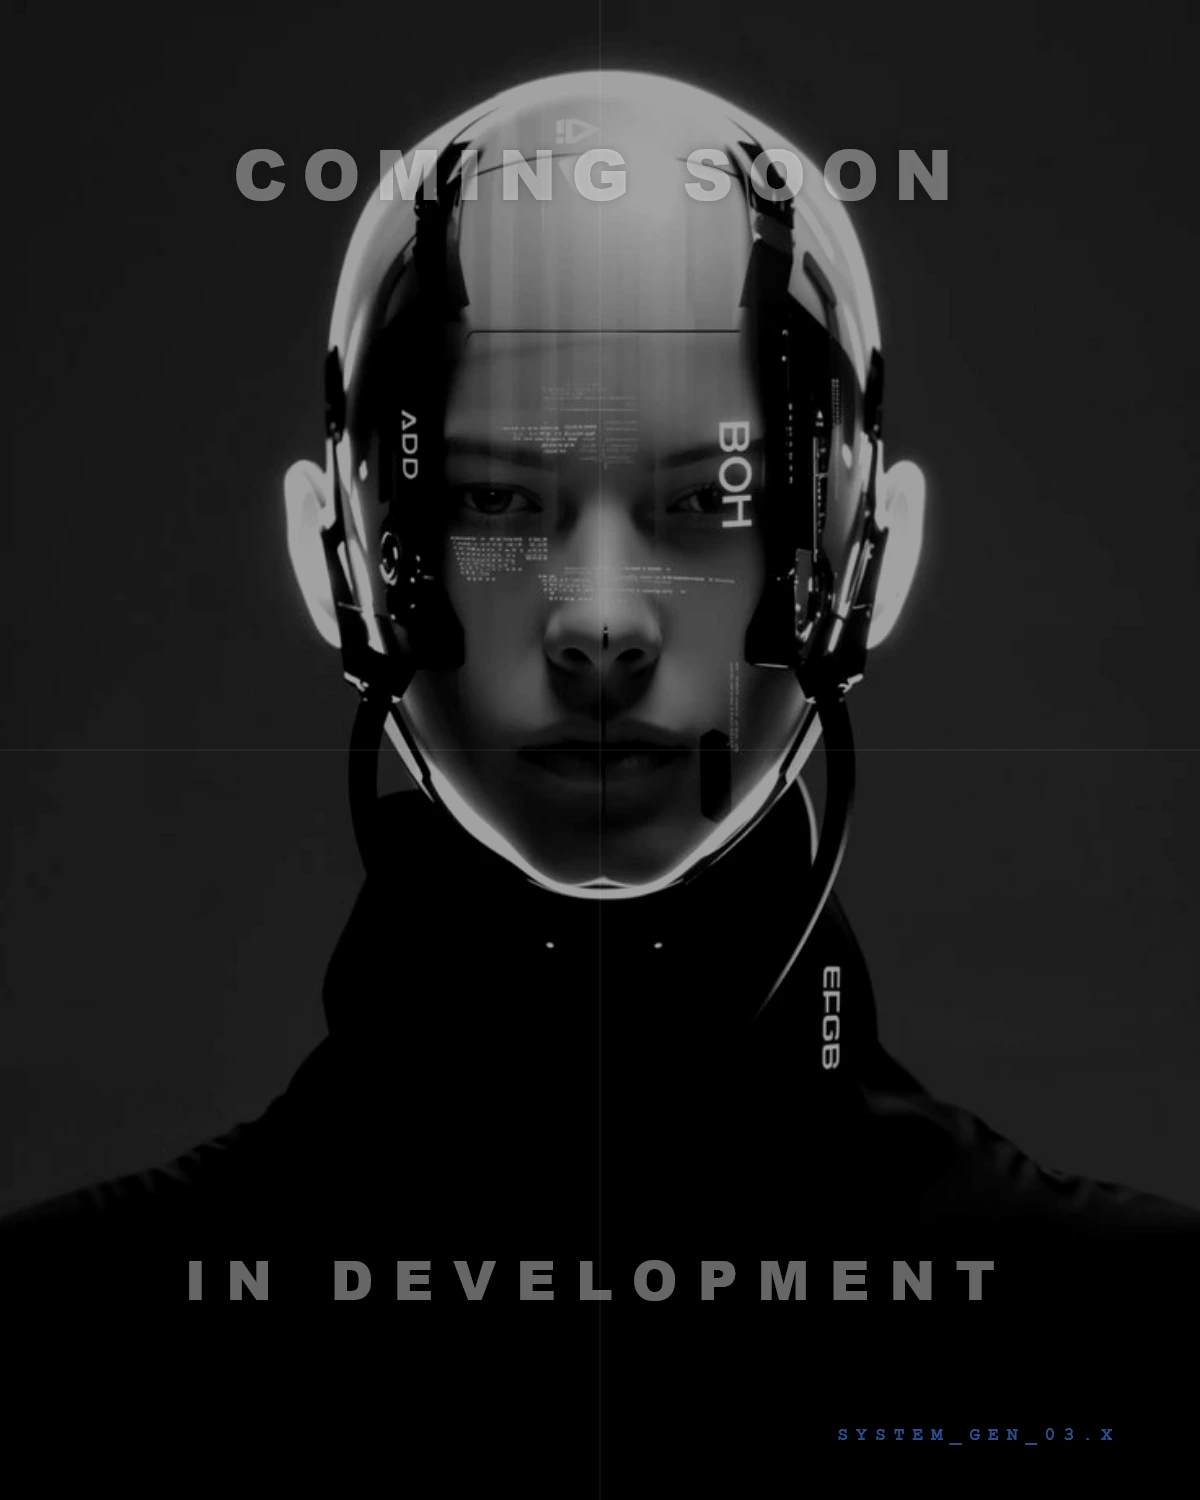
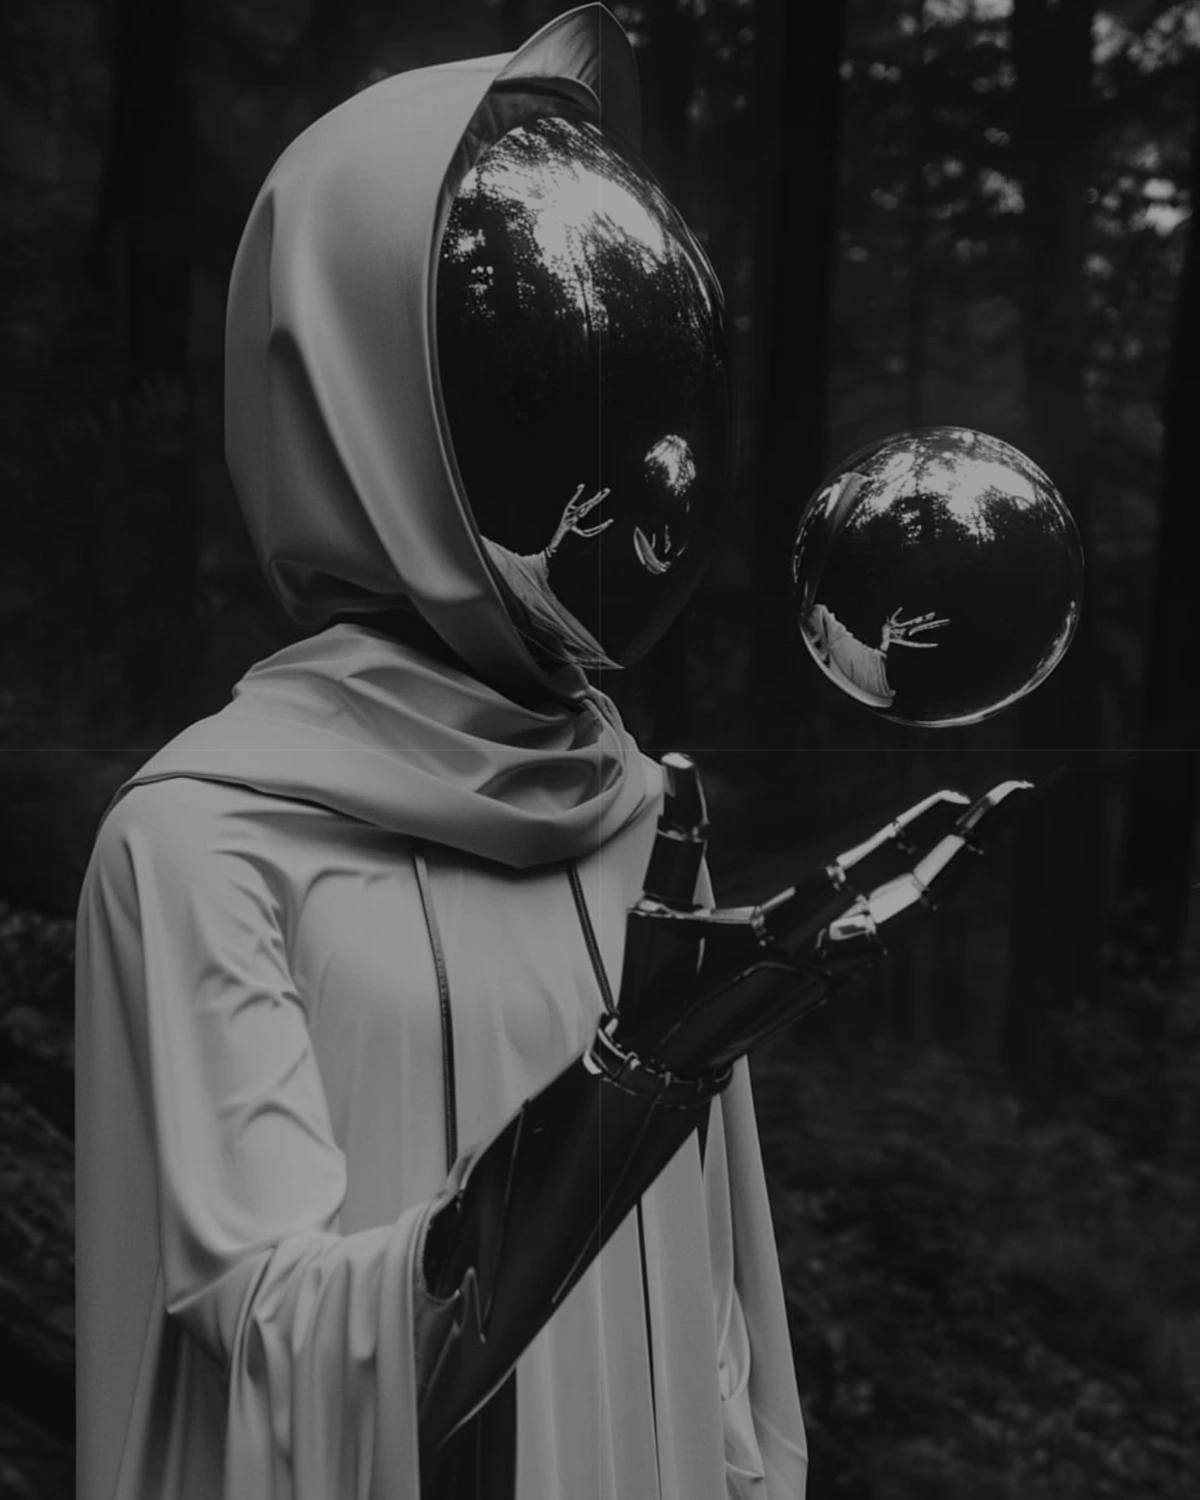
content: refresh project entries and case-study imagery

diff --git a/src/components/BentoGrid.tsx b/src/components/BentoGrid.tsx
@@ -169,7 +169,7 @@ export const BentoGrid = () => {
                   "MINDSET: GET SH*T DONE"
                 </p>
                 <p className="text-[10px] md:text-xs font-medium leading-relaxed opacity-80 uppercase tracking-wider">
-                  Software Engineering student at Stuttgart. Obsessed with high-performance systems. Clean code, built to last.
+                  Stuttgart University Software Engineering student. Target on high-performance systems. Clean code, built to last.
                 </p>
               </div>
 
@@ -202,7 +202,7 @@ export const BentoGrid = () => {
         <div className="lg:col-span-6">
            <BentoBox className="flex flex-col justify-between min-h-[160px] md:min-h-[180px]">
               <div className="flex items-baseline gap-2 mb-4">
-                <span className="text-5xl md:text-6xl font-black text-blue-600 dark:text-blue-400 tracking-tighter">03+</span>
+                <span className="text-5xl md:text-6xl font-black text-blue-600 dark:text-blue-400 tracking-tighter">02+</span>
                 <span className="text-[10px] font-mono font-black text-blue-600 uppercase tracking-widest animate-pulse">Years</span>
               </div>
               <div>

diff --git a/src/data/projects.ts b/src/data/projects.ts
@@ -25,13 +25,14 @@ export const projects: Project[] = [
     link: 'https://izotov.dev'
   },
   {
-    title: 'Processing',
-    category: 'Something new...',
+    title: 'Study Smart AI',
+    category: 'AI Architecture',
     year: '2026',
-    description: 'Minimalist kernel architecture for distributed systems. Focuses on low-latency inter-process communication and secure memory management for safety-critical industrial applications.',
+    description: 'Service-oriented architecture for AI-driven education. Orchestrates LLM inference for real-time content generation within a secure, containerized environment. Features a reactive HTMX frontend and asynchronous task processing for strict latency control.',
     image: coreLogicImg,
-    stack: ["Rust", "Wasm", "gRPC", "Redis", "Linux"],
-    status: 'development'
+    stack: ["Python", "Django", "HTMX", "Redis", "Docker", "PostgreSQL", "LLMs", "Stripe"],
+    status: 'active',
+    link: 'https://github.com/oleksandr-izotov/StudySmarterAi'
   },
   {
     title: 'Processing',
